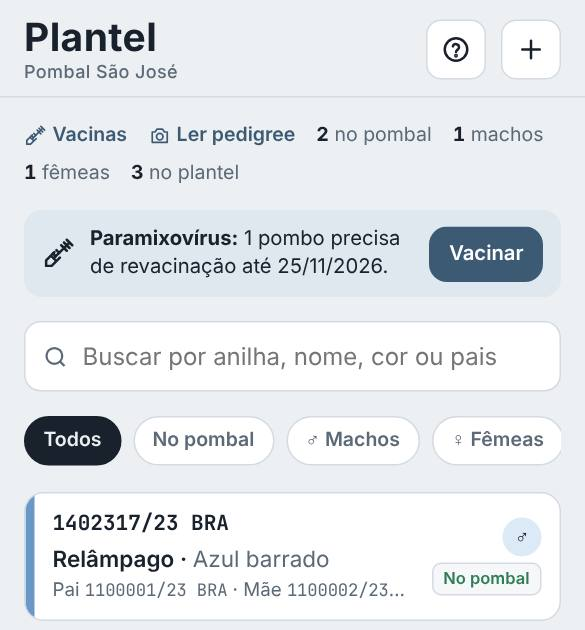
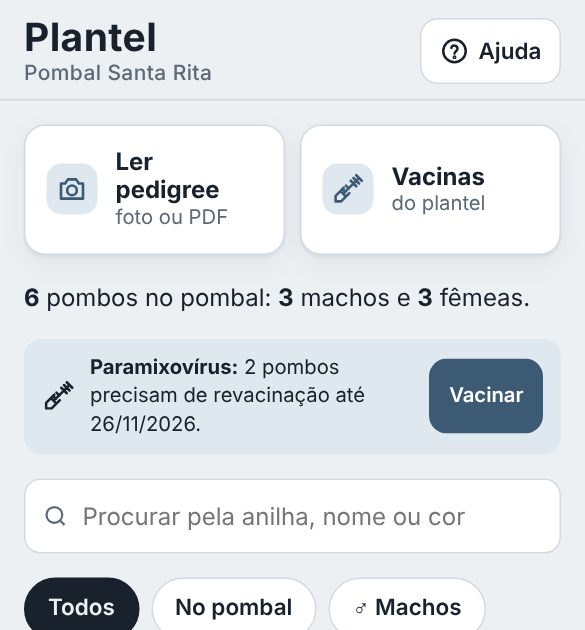
Ajuda: texto Sobre o app e imagens dos passos com as telas novas
Claude-Session: https://claude.ai/code/session_01DdLDE59EAEn2QZWPzL29yc

diff --git a/js/app.js b/js/app.js
@@ -250,8 +250,8 @@ function vPlantel() {
   const chip = (v, l) => `<button type="button" class="chip" data-filtro="${v}" aria-pressed="${state.filtro === v}">${l}</button>`;
   return shell('plantel', 'Plantel', nomePombal(), `${erroDados()}
     <div class="atalhos">
-      <a class="atalho" href="#/ler">${I.camera}<span><b>Ler pedigree</b><small>por foto ou PDF</small></span></a>
-      <a class="atalho so-celular" href="#/vacinas">${I.vacina}<span><b>Vacinas</b><small>vacinar o plantel</small></span></a>
+      <a class="atalho" href="#/ler">${I.camera}<span><b>Ler pedigree</b><small>foto ou PDF</small></span></a>
+      <a class="atalho so-celular" href="#/vacinas">${I.vacina}<span><b>Vacinas</b><small>do plantel</small></span></a>
     </div>
     <p class="resumo-plantel">${plural(ativos.length, 'pombo', 'pombos')} no pombal: ${plural(machos, 'macho', 'machos')} e ${plural(femeas, 'fêmea', 'fêmeas')}.</p>
     ${avisoVacinasHtml()}
@@ -1594,6 +1594,10 @@ function vAjuda() {
       <ol class="passos">${passos.map(x => `<li><span>${x}</span></li>`).join('')}</ol>
     </div></details>`;
   return shell('ajuda', 'Ajuda', 'Dúvidas e contato', `
+    <section class="card sobre-app"><h2>Sobre o app</h2>
+      <p>O ${esc(C.nomeApp)} foi criado por um ex-criador de pombos. No tempo em que criava, ele sentia falta de um app simples para cuidar do plantel.</p>
+      <p>Por isso fez este app, <b>de graça</b> para todos os columbófilos, até com a <b>leitura de pedigree por inteligência artificial</b>.</p></section>
+
     <section class="card ajuda-contato"><h2>Fale com a gente</h2>
       <p class="hint">Ficou com dúvida, achou um erro ou quer sugerir uma melhoria? Mande uma mensagem.</p>${contatosHtml()}</section>
 

diff --git a/css/style.css b/css/style.css
@@ -480,3 +480,7 @@ main.view > .stack > [data-adm-atualizar] { justify-self: start; }
 .ped-arvore-tit { font-family: var(--f-display); font-size: 24px; margin: 6px 0 -6px; }
 .ped-vazia { background: var(--surface); border: 1px dashed var(--line); border-radius: 12px; padding: 12px 14px; }
 @media (min-width: 960px) { .ped-acoes { grid-template-columns: auto auto; justify-content: start; } }
+/* Ajuda: sobre o app */
+.sobre-app { gap: 8px; }
+.sobre-app p { margin: 0; font-size: 16.5px; line-height: 1.5; }
+@media (min-width: 600px) { .sobre-app { max-width: 760px; } }
